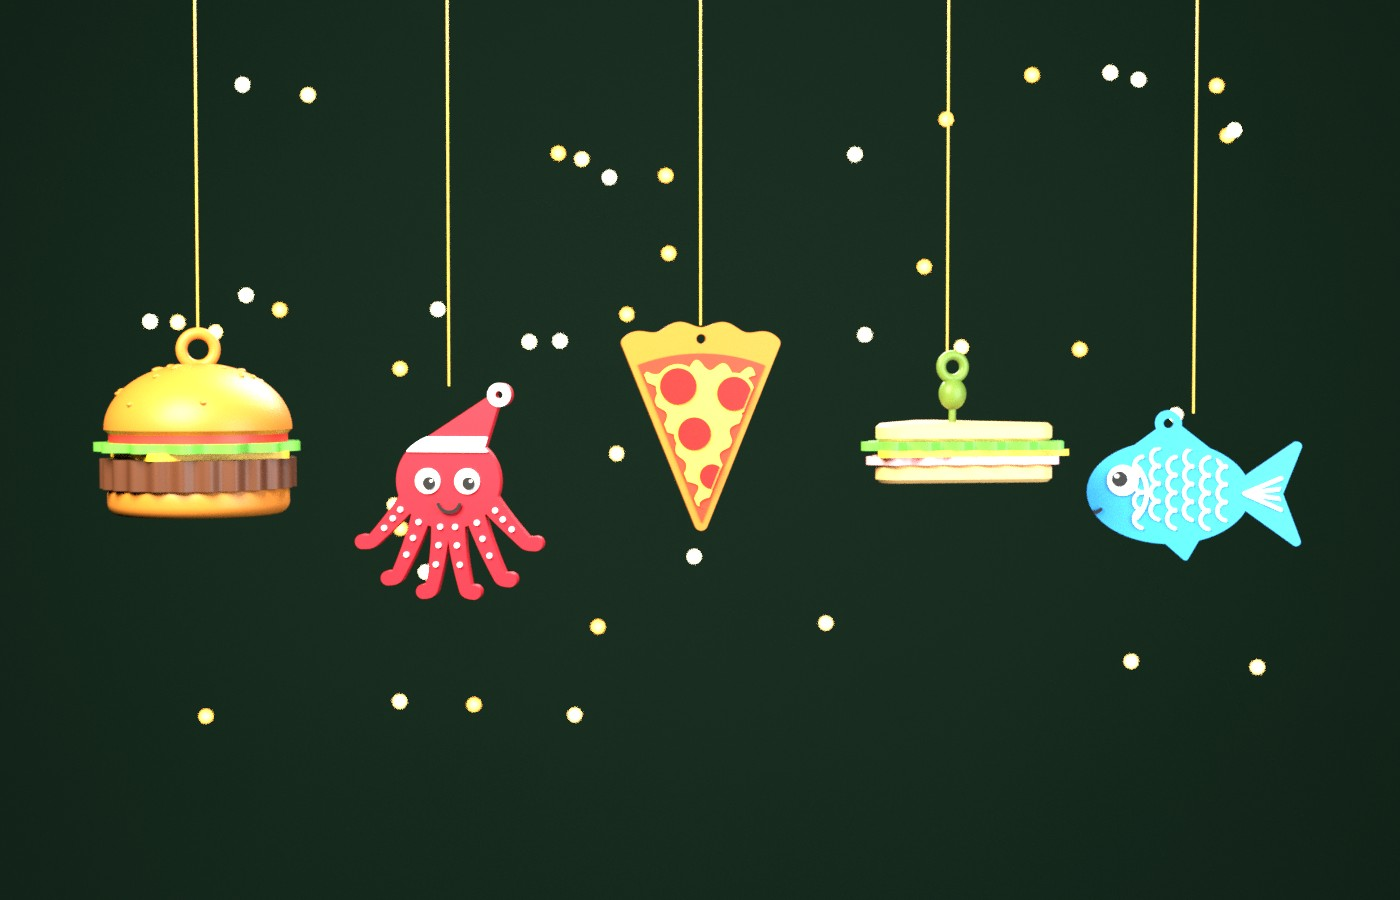
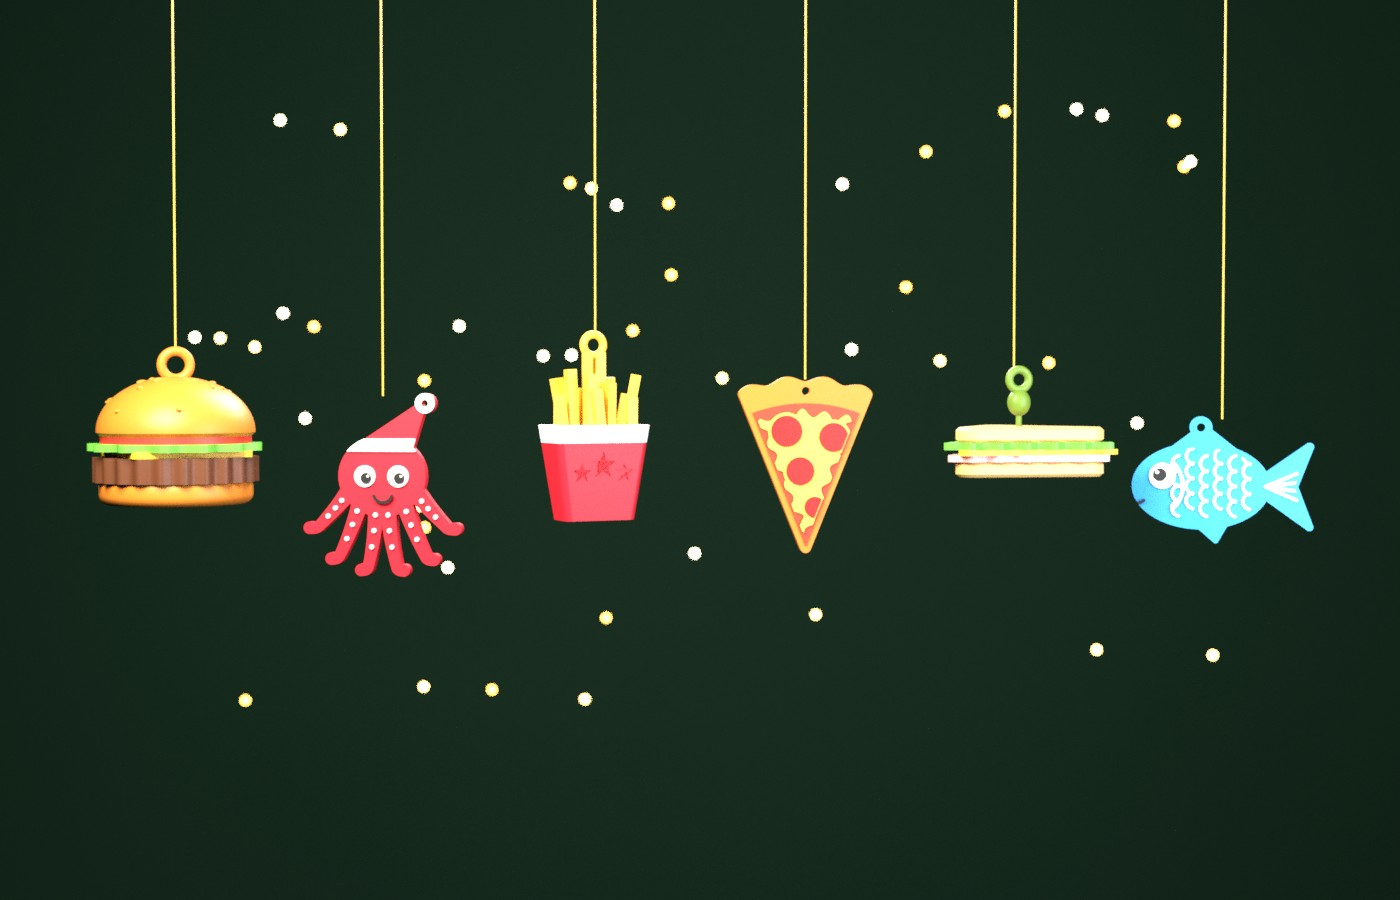
Addobbi PIN-UP: aggiunge il cartoccio di patatine
Claude-Session: https://claude.ai/code/session_018R7LFt7EiVGEL34tPqW5rx

diff --git a/progetti/pinup-cafe/addobbi-natale/genera_addobbi.py b/progetti/pinup-cafe/addobbi-natale/genera_addobbi.py
@@ -6,6 +6,7 @@ Emozioni in 3D - Addobbi di Natale PIN-UP Cafe (6-8 cm) con logo sul retro.
   sandwich   - 3D, tramezzino triangolare a strati con stecchino e oliva
   polpo      - piatto, con cappello di Babbo Natale, dettagli in rilievo
   pesciolino - piatto, dettagli in rilievo
+  patatine   - 3D, cartoccio rosso con fascia bianca e patatine
   pizza      - piatto, spicchio a strati (impasto, salsa, mozzarella, salame)
 
 Ogni pezzo è già orientato per la stampa (Z = direzione di stampa) ed è diviso
@@ -27,7 +28,7 @@ COLORI = {
     "pane": "#C27326", "pane_chiaro": "#D4A866", "carne": "#5A3420", "formaggio": "#F6C12C",
     "insalata": "#5DA93B", "pomodoro": "#D9372B", "prosciutto": "#EFA3A1", "oliva": "#5E7A2A",
     "rosso": "#C8202F", "bianco": "#F4F4F0", "nero": "#202020", "azzurro": "#2E8FD0",
-    "salsa": "#CF3A24", "mozzarella": "#F0C24A", "salame": "#8A1D1A",
+    "salsa": "#CF3A24", "patatina": "#F3B63A", "mozzarella": "#F0C24A", "salame": "#8A1D1A",
 }
 
 # ----------------------------------------------------------------- utilità 2D/3D
@@ -295,6 +296,52 @@ def pizza():
              ("salame", estrudi(salame2d, 0.8, BASE_H + 1.38))]
     return [(c, m.translate([0, -35, 0])) for c, m in parti]
 
+# ----------------------------------------------------------------- PATATINE (3D, a strati)
+def stella(r_est, r_int, c=(0, 0), rot=90):
+    a = np.radians(rot + np.arange(10) * 36)
+    r = np.where(np.arange(10) % 2 == 0, r_est, r_int)
+    return poligono(np.column_stack([c[0] + r * np.cos(a), c[1] + r * np.sin(a)]))
+
+def patatine():
+    H, Z_BIANCO = 38.0, 31.0             # cartoccio rosso fino a 31, fascia bianca fino a 38
+    def rett(w, d, z, r=3.0):
+        return estrudi(arrotonda(CrossSection.square([w, d], center=True), r), 0.01, z)
+    cart = (rett(30, 16, 0) + rett(41, 22.5, H - 0.01)).hull()
+    dentro = (rett(30 - 1.2, 16 - 1.2, 0) + rett(41 - 1.2, 22.5 - 1.2, H - 0.01)).hull()
+    guscio = cart - dentro                                  # pelle di 0,6 mm per le incisioni
+    def prisma_xz(cs2d, lato):                              # forma 2D nel piano XZ, attraverso metà Y
+        m = Manifold.extrude(cs2d, 30).rotate([90, 0, 0])    # estrusione verso -Y
+        return m if lato < 0 else m.mirror([0, 1, 0])
+    # davanti: tre stelle come nel logo; retro: logo PIN-UP (specchiato per leggerlo da dietro)
+    stelle = stella(4.2, 1.8, (-9, 19), 90) + stella(5.6, 2.4, (0, 22), 90) + stella(4.2, 1.8, (9, 19), 90)
+    cart = cart - (guscio ^ prisma_xz(stelle, -1))
+    logo = logo_2d(33).mirror([1, 0]).translate([0, 17.5])
+    cart = cart - (guscio ^ prisma_xz(logo, +1))
+    # vano in alto (bordo di 1,6 mm) da cui escono le patatine
+    vano = (rett(41 - 3.2, 22.5 - 3.2, H - 6) + rett(41 - 3.2, 22.5 - 3.2, H + 1)).hull()
+    cart = cart - vano
+    # patatine: bastoncini 4x4 di altezze e inclinazioni diverse
+    rng = np.random.default_rng(11)
+    pos = [(-14, -5), (-14, 3), (-9, -1), (-9, 6), (-4, -6), (-2.6, 0.5), (2.6, 0.5), (4, -6), (4, 6.5),
+           (9, -2), (9, 5.5), (14, -5), (14, 2.5), (-4, 6.5), (0, -7.5)]
+    alti = {(-2.6, 0.5): 27, (2.6, 0.5): 27}
+    fritte = Manifold()
+    for (x, y) in pos:
+        L = alti.get((x, y), rng.uniform(12, 23) - abs(x) * 0.25)
+        lung = L + 9
+        st = Manifold.cube([4, 4, lung], center=True).translate([0, 0, lung / 2])
+        tilt = (0, 0) if (x, y) in alti else (rng.uniform(-9, 9) + x * 0.5, rng.uniform(-7, 7))
+        st = st.rotate([tilt[1], tilt[0], rng.uniform(-25, 25)]).translate([x, y, H - 7])
+        fritte = fritte + st
+    cima = H - 7 + 27 + 9
+    anello = Manifold.revolve(cerchio(1.6, (4.2, 0)), 0, 360).rotate([90, 0, 0]).translate([0, 0.5, cima + 3.0])
+    tutto = cart + fritte + anello
+    big = 200
+    fascia = lambda z0, z1: Manifold.cube([big, big, z1 - z0]).translate([-big / 2, -big / 2, z0])
+    return [("rosso", tutto ^ fascia(-1, Z_BIANCO)),
+            ("bianco", tutto ^ fascia(Z_BIANCO, H)),
+            ("patatina", tutto ^ fascia(H, 120))]
+
 # ----------------------------------------------------------------- export
 def unisci_per_colore(parti):
     out = {}
@@ -325,7 +372,7 @@ def main():
     cartella = os.path.join(QUI, "parti"); os.makedirs(cartella, exist_ok=True)
     fq = os.path.join(cartella, "quote.json")
     tutti = json.load(open(fq)) if os.path.exists(fq) else {}
-    for nome, f in [("hamburger", hamburger), ("sandwich", sandwich), ("polpo", polpo), ("pesciolino", pesciolino), ("pizza", pizza)]:
+    for nome, f in [("hamburger", hamburger), ("sandwich", sandwich), ("polpo", polpo), ("pesciolino", pesciolino), ("pizza", pizza), ("patatine", patatine)]:
         if len(sys.argv) > 1 and nome not in sys.argv[1:]: continue
         tutti[nome] = salva(nome, f(), cartella)
     json.dump(tutti, open(fq, "w"), indent=1)

diff --git a/progetti/pinup-cafe/addobbi-natale/render_blender.py b/progetti/pinup-cafe/addobbi-natale/render_blender.py
@@ -97,7 +97,7 @@ def filo(sopra, lungh=3.0):
 if VISTA in ("fronte", "retro"):
     v, objs, piatto = importa(NOME)
     if VISTA == "retro":
-        if piatto: v.rotation_euler.z = math.radians(180)
+        if piatto or NOME == "patatine": v.rotation_euler.z = math.radians(180)
         else: v.rotation_euler = Euler((0, math.radians(180), 0))   # capovolto: si vede il fondo
     c, dim = centro_ingombro(objs)
     for o in [v]: v.location -= c
@@ -105,7 +105,9 @@ if VISTA in ("fronte", "retro"):
     mondo("#FBF6EE", 0.55)
     sfondo("#F3E9DA")
     r = max(dim) * 2.9
-    if NOME in ("hamburger", "sandwich") and VISTA == "fronte":
+    if NOME == "patatine":
+        camera((r * 0.18, -r * 0.95, r * 0.22), (0, 0, 0), 85)
+    elif NOME in ("hamburger", "sandwich") and VISTA == "fronte":
         camera((r * 0.15, -r * 0.95, r * (0.30 if NOME == "hamburger" else 0.42)), (0, 0, -0.02), 85)
     elif NOME in ("hamburger", "sandwich"):
         camera((0.0, -r * 0.55, r * 0.85), (0, 0, 0), 85)
@@ -115,13 +117,13 @@ if VISTA in ("fronte", "retro"):
     luce_area("fill", (0.9, -0.6, 0.2), 25, 1.2, (0.9, 0.95, 1))
     luce_area("rim", (0.2, 1.0, 0.9), 35, 0.6)
 else:  # gruppo: tutti appesi su sfondo verde scuro
-    disp = [("hamburger", -1.70, 0.10), ("polpo", -0.85, -0.14), ("pizza", 0.0, 0.08), ("sandwich", 0.85, 0.12), ("pesciolino", 1.68, -0.12)]
+    disp = [("hamburger", -2.10, 0.10), ("polpo", -1.27, -0.14), ("patatine", -0.42, 0.10), ("pizza", 0.42, -0.06), ("sandwich", 1.27, 0.12), ("pesciolino", 2.10, -0.12)]
     for nome, x, z in disp:
         v, objs, piatto = importa(nome)
         c, dim = centro_ingombro(objs)
         v.location -= c
         v.location += Vector((x, 0, z))
-        v.rotation_euler.z += math.radians({"hamburger": 20, "polpo": -8, "pizza": 6, "sandwich": 10, "pesciolino": -12}[nome])
+        v.rotation_euler.z += math.radians({"hamburger": 20, "polpo": -8, "pizza": 6, "patatine": 25, "sandwich": 10, "pesciolino": -12}[nome])
         c, dim = centro_ingombro(objs)
         filo(Vector((c.x, c.y, c.z + dim.z / 2 - 0.01)))
     mondo("#0E2A1C", 0.4)
@@ -135,8 +137,8 @@ else:  # gruppo: tutti appesi su sfondo verde scuro
         em.inputs[0].default_value = hex2rgb(random.choice(["#FFD27A", "#FFB347", "#FFF1C1"])); em.inputs[1].default_value = 18
         m.node_tree.links.new(em.outputs[0], n["Material Output"].inputs[0])
         bpy.context.object.data.materials.append(m)
-    cam = camera((0.0, -6.6, 0.25), (0.0, 0, 0.0), 50)
-    cam.data.dof.use_dof = True; cam.data.dof.focus_distance = 6.6; cam.data.dof.aperture_fstop = 0.9
+    cam = camera((0.0, -7.8, 0.25), (0.0, 0, 0.0), 50)
+    cam.data.dof.use_dof = True; cam.data.dof.focus_distance = 7.8; cam.data.dof.aperture_fstop = 0.9
     luce_area("key", (-2.0, -3.0, 2.4), 900, 2.5, (1, 0.93, 0.82))
     luce_area("fill", (2.6, -2.4, 0.4), 320, 3.0, (0.85, 0.92, 1))
     luce_area("rim", (0.0, 2.0, 2.5), 400, 2.5)

diff --git a/progetti/pinup-cafe/addobbi-natale/README.md b/progetti/pinup-cafe/addobbi-natale/README.md
@@ -1,9 +1,10 @@
 # Addobbi di Natale PIN-UP Cafe (bozze)
 
-Cinque addobbi da 6-8 cm per l'albero, con il logo PIN-UP inciso sul retro.
+Sei addobbi da 6-8 cm per l'albero, con il logo PIN-UP inciso sul retro.
 
 ![Tavola](rendering/tavola_completa.jpg)
 ![Pizza](rendering/pizza_fronte_retro.jpg)
+![Patatine](rendering/patatine_fronte_retro.jpg)
 ![Albero](rendering/albero_gruppo.jpg)
 
 | Addobbo | Tipo | Misure | Colori (cambio filamento a strati) |
@@ -12,6 +13,7 @@ Cinque addobbi da 6-8 cm per l'albero, con il logo PIN-UP inciso sul retro.
 | Tramezzino | 3D | 71 × 63 × 44 mm | pane, prosciutto, formaggio, insalata, pane, oliva |
 | Polpo | piatto, 5,8 mm | 65 × 73 mm | rosso + dettagli bianchi + dettagli neri |
 | Pesciolino | piatto, 5,8 mm | 71 × 51 mm | azzurro + dettagli bianchi + dettagli neri |
+| Patatine | 3D | 42 × 23 × 76 mm | cartoccio rosso (stelle davanti, logo dietro), fascia bianca, patatine gialle |
 | Pizza | piatto, 6,2 mm | 54 × 71 mm | impasto, salsa, mozzarella, salame (salsa e salame possono usare lo stesso rosso) |
 
 Sono **bozze per i rendering**: dopo l'approvazione si preparano i file 3MF di stampa, con le quote dei cambi colore.
